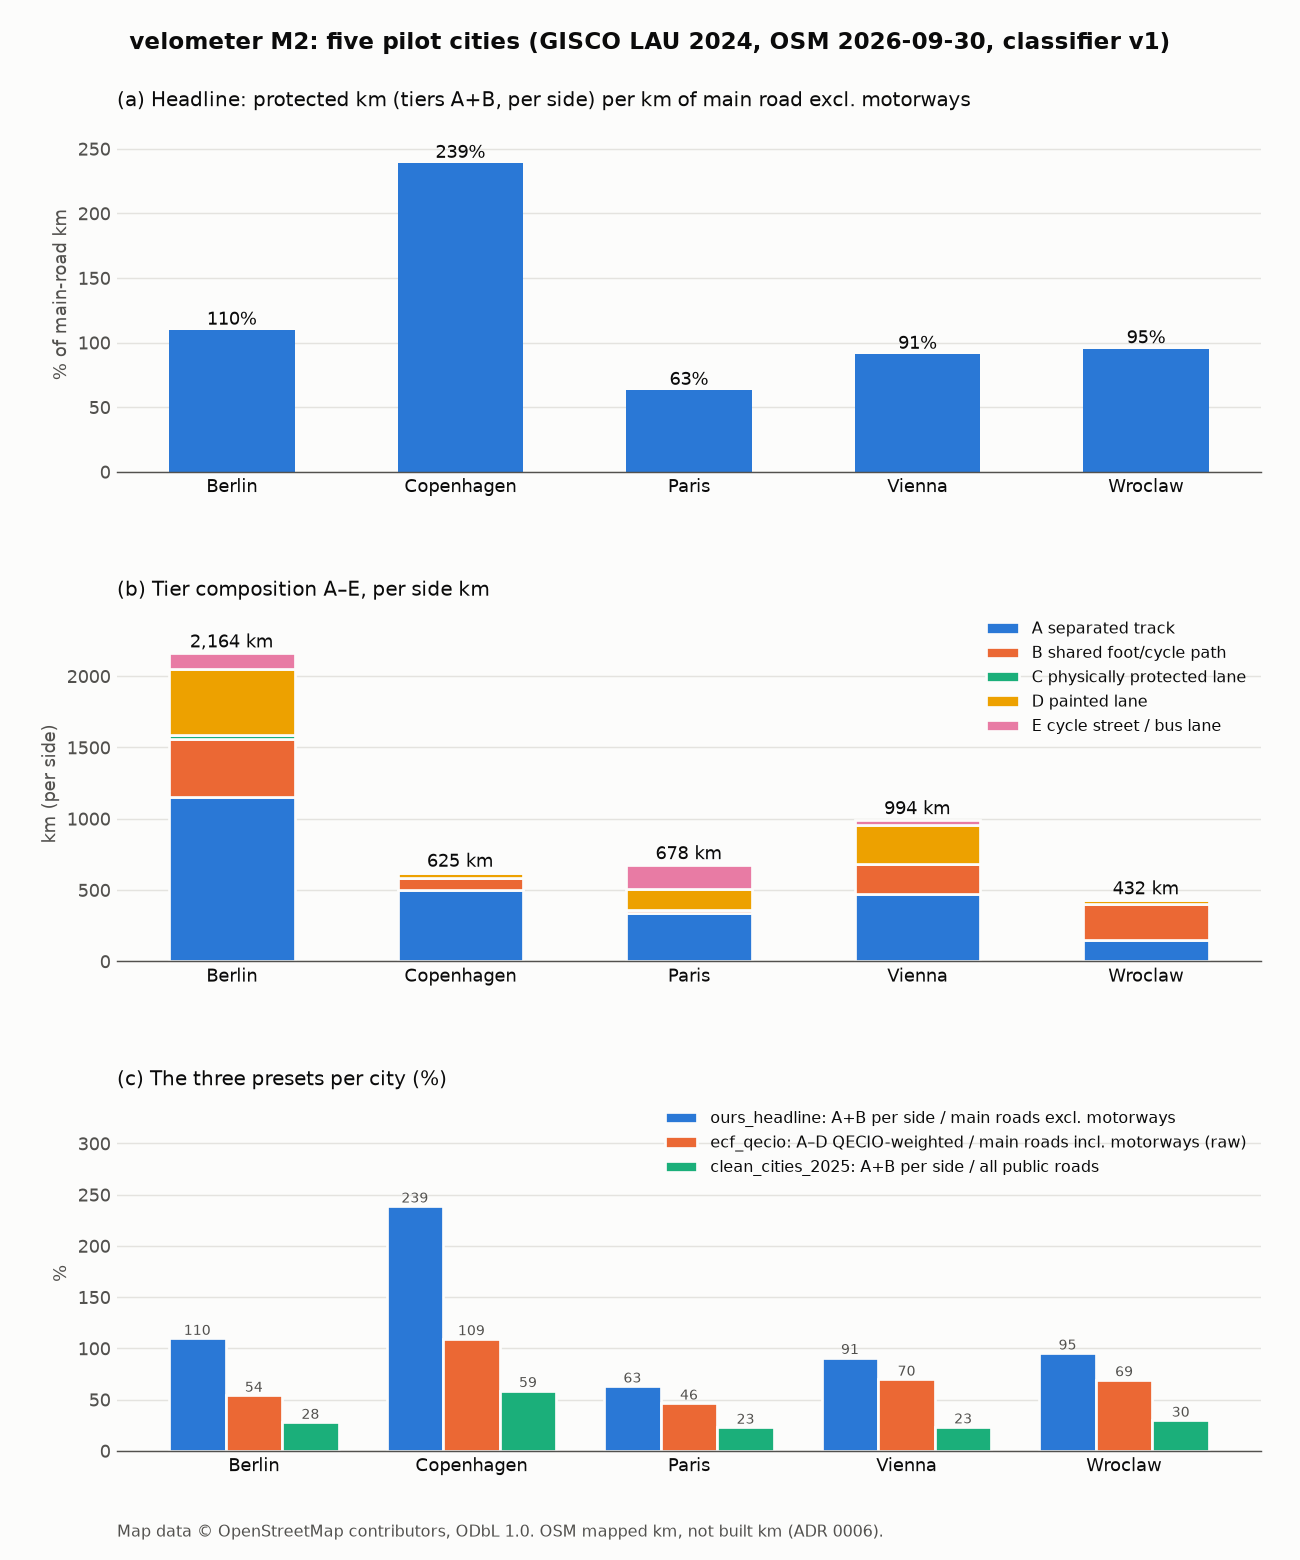
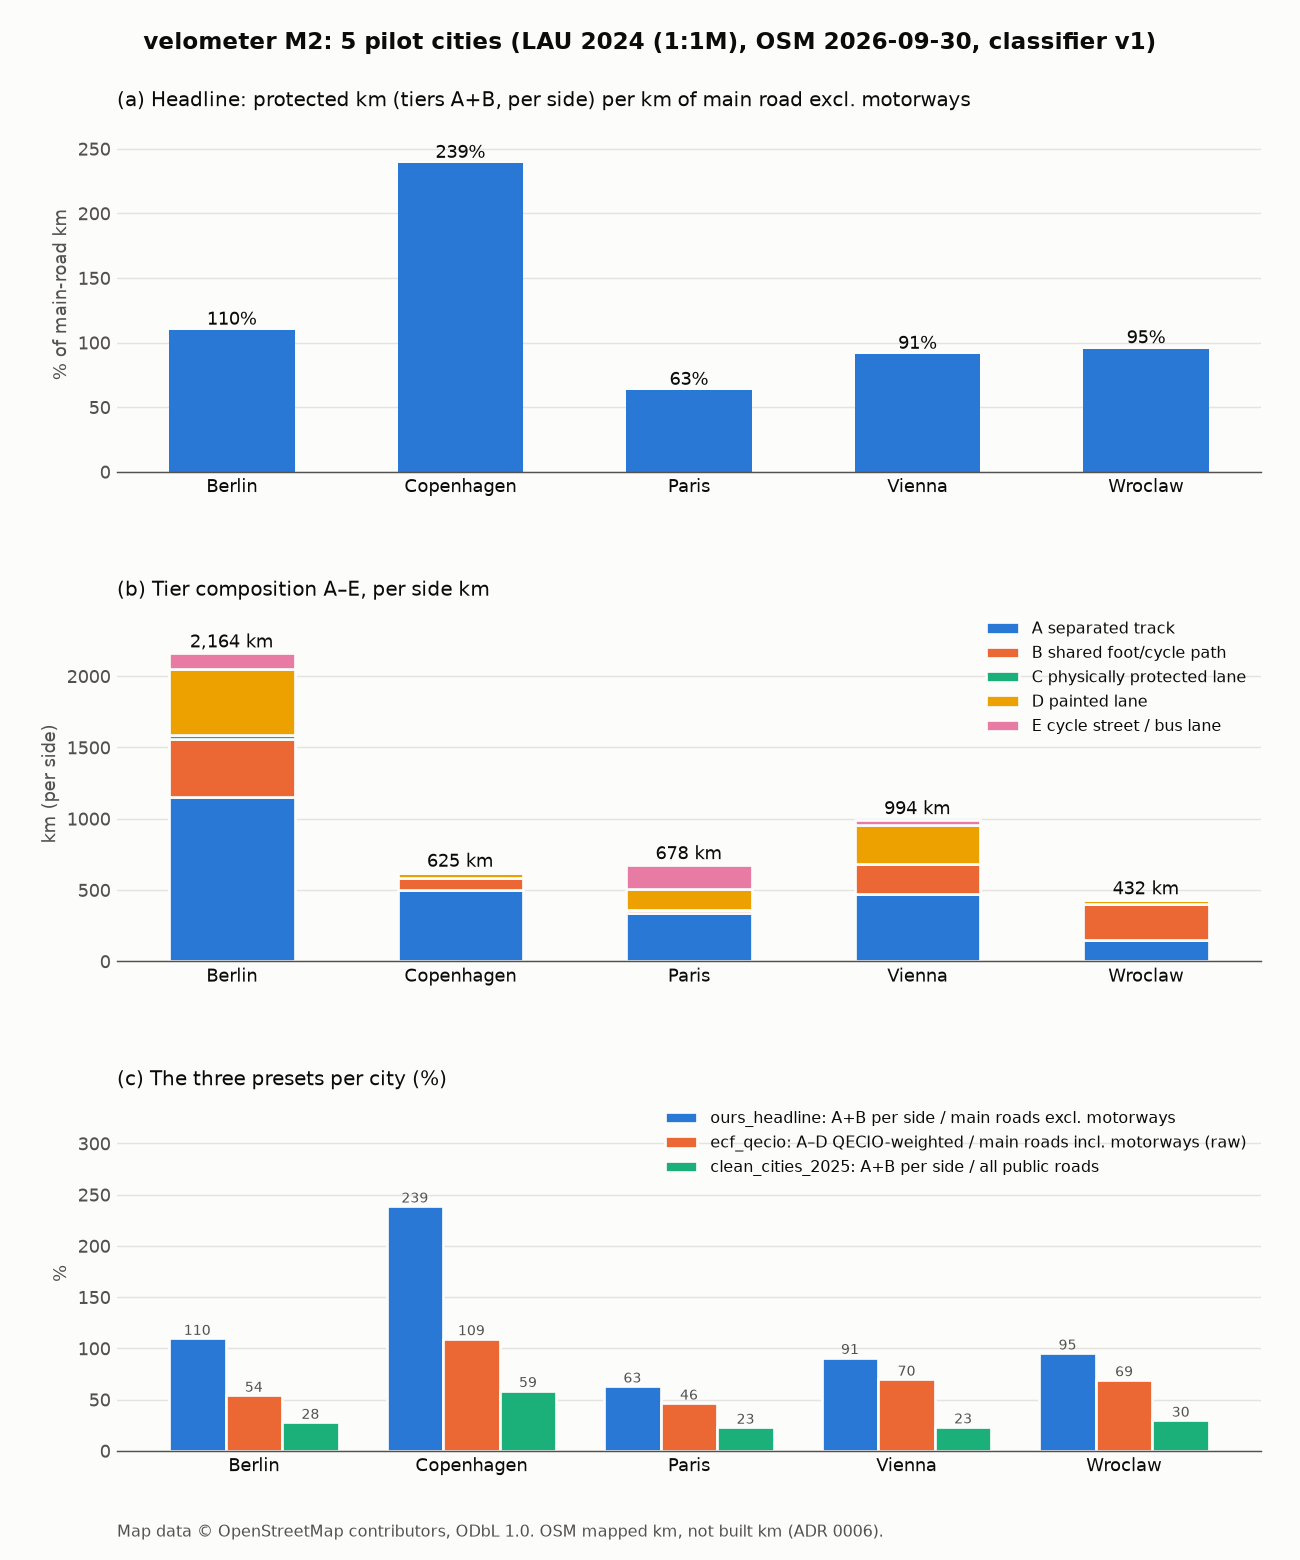
docs: M2 results and reconciliation from schema v3 runs 6-10; spec and scope amendments
Runs 6-10 (classifier v1, OSM 2026-09-30, config sha 0fac7cd5d1c8) reproduce runs 1-5
exactly: every road_lengths, tier_lengths and metrics value is identical; only n_ways
drops where ways lie wholly outside the boundary (M1).

- reconciliation.md: regenerated with provenance lines; explanations name runs 6-10
  in an explained-against marker. M6: the Paris shared-path figure is restated on one
  basis (18.0 km centreline, 20.2 km per side), and the Wroclaw untiered total is
  recomputed from the snapshot (370.7 km = 166.8 + 203.7 + 0.2).
- m2_results.md/png: regenerated (run-row provenance, title from the runs).
- spec: R10 (bnk_network_km against A+B+E) in decision 11 and the section 3 table;
  Vienna's network km 2,844 and its correction date (M7); schema v3 and the new
  reconcile checks.
- CLAUDE.md: current scope points at the M2 spec (M10).

Assisted-by: Claude:claude-opus-5-5

Changed region(s): [[0.0923, 0.0, 0.8923, 0.0308]]

diff --git a/docs/reconciliation.md b/docs/reconciliation.md
@@ -17,6 +17,8 @@ Comparison map: `config/reconcile.yaml`. Our numbers are OSM *mapped* km (ADR 00
 
 #### berlin
 
+Provenance: run 6 · OSM 2026-09-30T20:22:42Z · classifier v1 `{"plain_cycleway_on_oneway":"traffic_side"}` · config `0fac7cd5d1c8` · commit `4e3b2c3` · boundary lau `760d04d86a75` · sources: bikenetkit_v1 retrieved 2026-10-01; changing_cities retrieved 2026-10-01; clean_cities_2025 retrieved 2026-10-01; official retrieved 2026-10-01; qecio_v2_10 retrieved 2026-10-01, file md5 fc8712edb94749b5cee4838075d59274
+
 | key | ours | theirs | gap | flag | tags | source (date) |
 |---|---:|---:|---:|---|---|---|
 | `berlin/cc_ratio` | 27.7 | 17.0 | +62.9% | **>20%** | date_gap | clean_cities_2025 (2025-05-14) |
@@ -35,6 +37,8 @@ Comparison map: `config/reconcile.yaml`. Our numbers are OSM *mapped* km (ADR 00
 
 #### copenhagen
 
+Provenance: run 9 · OSM 2026-09-30T20:22:42Z · classifier v1 `{"plain_cycleway_on_oneway":"traffic_side"}` · config `0fac7cd5d1c8` · commit `4e3b2c3` · boundary lau `e7afb8eb0bb0` · sources: bikenetkit_v1 retrieved 2026-10-01; clean_cities_2025 retrieved 2026-10-01; qecio_v2_10 retrieved 2026-10-01, file md5 fc8712edb94749b5cee4838075d59274
+
 | key | ours | theirs | gap | flag | tags | source (date) |
 |---|---:|---:|---:|---|---|---|
 | `copenhagen/cc_ratio` | 58.6 | 43.0 | +36.4% | **>20%** | date_gap | clean_cities_2025 (2025-05-14) |
@@ -48,6 +52,8 @@ Comparison map: `config/reconcile.yaml`. Our numbers are OSM *mapped* km (ADR 00
 | `copenhagen/bnk_network_km` | 588.6 | 558.2 | +5.4% | ok | definition_mismatch, boundary_mismatch | bikenetkit_v1 (?) |
 
 #### paris
+
+Provenance: run 7 · OSM 2026-09-30T20:22:42Z · classifier v1 `{"plain_cycleway_on_oneway":"traffic_side"}` · config `0fac7cd5d1c8` · commit `4e3b2c3` · boundary lau `87ba05899604` · sources: bikenetkit_v1 retrieved 2026-10-01; clean_cities_2025 retrieved 2026-10-01; qecio_v2_10 retrieved 2026-10-01, file md5 fc8712edb94749b5cee4838075d59274
 
 | key | ours | theirs | gap | flag | tags | source (date) |
 |---|---:|---:|---:|---|---|---|
@@ -63,14 +69,16 @@ Comparison map: `config/reconcile.yaml`. Our numbers are OSM *mapped* km (ADR 00
 
 #### vienna
 
+Provenance: run 8 · OSM 2026-09-30T20:22:42Z · classifier v1 `{"plain_cycleway_on_oneway":"traffic_side"}` · config `0fac7cd5d1c8` · commit `4e3b2c3` · boundary lau `e9f660e9d87a` · sources: bikenetkit_v1 retrieved 2026-10-01; clean_cities_2025 retrieved 2026-10-01; qecio_v2_10 retrieved 2026-10-01, file md5 fc8712edb94749b5cee4838075d59274
+
 | key | ours | theirs | gap | flag | tags | source (date) |
 |---|---:|---:|---:|---|---|---|
 | `vienna/cc_ratio` | 23.2 | 14.0 | +65.9% | **>20%** | date_gap | clean_cities_2025 (2025-05-14) |
-| `vienna/cc_ratio@incl_traffic_calmed_restricted_access` | 23.2 | 22.0 | +5.6% | ok | date_gap, scope_mismatch | clean_cities_2025 (2025-05-14) |
+| `vienna/cc_ratio@incl_traffic_calmed_restricted_access` | 23.2 | 22.0 | +5.6% | ok | date_gap, scope_mismatch | clean_cities_2025 (2025-07-17) |
 | `vienna/cc_km` | 679.8 | 384.0 | +77.0% | **>20%** | date_gap | clean_cities_2025 (2025-05-14) |
-| `vienna/cc_km@incl_traffic_calmed_restricted_access` | 679.8 | 625.1 | +8.8% | ok | date_gap, scope_mismatch | clean_cities_2025 (2025-05-14) |
+| `vienna/cc_km@incl_traffic_calmed_restricted_access` | 679.8 | 625.1 | +8.8% | ok | date_gap, scope_mismatch | clean_cities_2025 (2025-07-17) |
 | `vienna/cc_network_km` | 2,926.7 | 2,844.0 | +2.9% | ok | date_gap | clean_cities_2025 (2025-05-14) |
-| `vienna/cc_network_km@incl_traffic_calmed_restricted_access` | 2,926.7 | 2,844.0 | +2.9% | ok | date_gap, scope_mismatch | clean_cities_2025 (2025-05-14) |
+| `vienna/cc_network_km@incl_traffic_calmed_restricted_access` | 2,926.7 | 2,844.0 | +2.9% | ok | date_gap, scope_mismatch | clean_cities_2025 (2025-07-17) |
 | `vienna/qecio_main_km` | 1,075.2 | 1,078.2 | -0.3% | ok | date_gap | qecio_v2_10 (2024-01-10) |
 | `vienna/qecio_tracks_km` | 423.5 | 380.5 | +11.3% | ok | date_gap | qecio_v2_10 (2024-01-10) |
 | `vienna/qecio_lanes_km` | 136.7 | 141.2 | -3.1% | ok | date_gap | qecio_v2_10 (2024-01-10) |
@@ -79,6 +87,8 @@ Comparison map: `config/reconcile.yaml`. Our numbers are OSM *mapped* km (ADR 00
 | `vienna/bnk_network_km` | 720.9 | 782.6 | -7.9% | ok | definition_mismatch, boundary_mismatch | bikenetkit_v1 (?) |
 
 #### wroclaw
+
+Provenance: run 10 · OSM 2026-09-30T20:22:42Z · classifier v1 `{"plain_cycleway_on_oneway":"traffic_side"}` · config `0fac7cd5d1c8` · commit `4e3b2c3` · boundary lau `6e5e44174776` · sources: bikenetkit_v1 retrieved 2026-10-01; clean_cities_2025 retrieved 2026-10-01; qecio_v2_10 retrieved 2026-10-01, file md5 fc8712edb94749b5cee4838075d59274
 
 | key | ours | theirs | gap | flag | tags | source (date) |
 |---|---:|---:|---:|---|---|---|
@@ -96,8 +106,11 @@ Comparison map: `config/reconcile.yaml`. Our numbers are OSM *mapped* km (ADR 00
 
 ## Explanations
 
-Evidence used below: tier and road km from the run rows (`velometer.sqlite`, runs 1–5, OSM
-2026-09-30, classifier v1, GISCO LAU 2024), the external rows and their notes, the QECIO v2.10
+<!-- explained-against: berlin=6 copenhagen=9 paris=7 vienna=8 wroclaw=10 -->
+
+Evidence used below: tier and road km from the run rows (`velometer.sqlite`, runs 6–10, OSM
+2026-09-30, classifier v1, GISCO LAU 2024; their tier and road km are identical to the
+superseded runs 1–5), the external rows and their notes, the QECIO v2.10
 Methodology PDF (Table 2) and `docs/research/m2-data-sources-2026-10-01.md`. "Centreline" means
 our `qecio_weighted` basis: a bidirectional way counts once and each one-way side counts half,
 which is how QECIO counts and, judging by Berlin and Wrocław, how the ECF tracker numbers in
@@ -174,9 +187,10 @@ numbers (`paris/qecio_tracks_km` +11.1%, `paris/qecio_total_km` −11.6%).
 ### paris/qecio_shared_km
 Cause: **date**. Applying QECIO's own tag definition of cycle and pedestrian tracks (Methodology
 Table 2: footway/path/pedestrian + `bicycle=designated` + `segregated!=yes`, or cycleway +
-`foot=designated` + `segregated!=yes`) to our 2026-09-30 snapshot gives 20.3 km centreline, of
-which v1 classifies 20.2 km as B. So our classifier and QECIO's rule agree on today's data, and
-the gap to QECIO's 24.3 km (−6.3 km on a small base) lies in the data: 994 days of retagging
+`foot=designated` + `segregated!=yes`) to our 2026-09-30 snapshot selects 20.3 km of ways, which
+v1 classifies as B in full: 18.0 km centreline (20.2 km per side), the same 18.0 km as our
+`qecio_shared_km` value. So our classifier and QECIO's rule agree on today's data, and the gap to
+QECIO's 24.3 km (−6.3 km centreline on a small base) lies in the data: 994 days of retagging
 since QECIO's 2024-01-10 snapshot. Not verified against a 2024 snapshot.
 
 ### vienna/cc_ratio
@@ -213,9 +227,11 @@ with a different scope; per-city sources are unverified (research doc §6).
 ### wroclaw/bnk_network_km
 Cause: **definition**. BikeNetKit's filter also takes living streets and footways/paths with
 `bicycle=yes|permissive`, which our tiers A+B+E leave out. Applying that filter to our snapshot
-gives 769.1 km centreline, of which 364.5 km get no tier at all from v1. The two groups
-that v1 deliberately leaves out of A/B/E are living streets (167.4 km) and footway/path/pedestrian
-ways with `bicycle=yes|permissive` (113.9 + 3.1 + 77.9 + 8.7 = 203.6 km). BikeNetKit's 638.8 km sits between our 399.4 km and that raw 769.1 km, which
+gives 769.1 km of ways (each way once), of which 370.7 km get no tier A–E from v1. Almost all of
+that is the two groups v1 deliberately leaves out of A/B/E: living streets (166.8 of their
+167.4 km; the other 0.7 km carry a painted lane) and footway/path/pedestrian ways with
+`bicycle=yes|permissive` (footway 113.9 + 3.1, path 77.9 + 0.04, pedestrian 8.7 = 203.7 km, all
+untiered); the remaining 0.2 km are other ways. BikeNetKit's 638.8 km sits between our 399.4 km and that raw 769.1 km, which
 fits its graph simplification and isolate removal. The boundaries agree (BikeNetKit ≈ 290 km²
 vs our 291.6 km²), so the boundary is not the cause. For the other four cities the same
 comparison stays within 10%.

diff --git a/docs/superpowers/specs/2026-10-01-velometer-m2-design.md b/docs/superpowers/specs/2026-10-01-velometer-m2-design.md
@@ -76,10 +76,10 @@
     | Copenhagen | 397 | 926 | 43% |
     | Wrocław | 355 | 1,769 | 20% |
     | Berlin | 925 | 5,350 | 17% |
-    | Vienna | 384 | — | 14% |
+    | Vienna | 384 | 2,844 | 14% |
 
-    Vienna also has a July 2025 web correction: 625.1 km of 2,844 km (22.0%), which adds traffic-calmed streets and so is not like-for-like. Both rows are stored, with notes. Whether each city's figure is city-submitted or OSM is not stated per city, so the note field says so.
-11. **BikeNetKit's "bike network"** includes living streets and cycle streets, so it is wider than "protected". It is compared against our `A+B+C+D+E` sum, not the headline. Its boundaries are OSM/Nominatim polygons, which differ from LAU. The snapshot date is "summer 2026" (unverified), and the row carries that note.
+    Vienna also has a July 2025 web correction: 625.1 km of 2,844 km (22.0%), which adds traffic-calmed streets and so is not like-for-like. Its rows carry `reference_date` 2025-07-17 (the page's modified date; the correction's own date is not published). Both rows are stored, with notes. Whether each city's figure is city-submitted or OSM is not stated per city, so the note field says so.
+11. **BikeNetKit's "bike network"** includes living streets and cycle streets, so it is wider than "protected". It is compared against our `A+B+E` sum (BikeNetKit has no lanes; research §7, Ruling R10, amended in the final fix dispatch), not the headline. Its boundaries are OSM/Nominatim polygons, which differ from LAU. The snapshot date is "summer 2026" (unverified), and the row carries that note.
 12. **Scale engine.** shapely with STRtree stays the engine. DuckDB is introduced only if a full Berlin `classify` takes more than 10 minutes or more than 8 GB RSS on this machine. The measurement is recorded in ADR 0007 either way.
 
 ## 3. Units and interfaces
@@ -156,6 +156,7 @@ Retries are bounded (3) with back-off.
   - `write_result(run_id, city_id, MeasureResult, metrics)`, in one transaction;
   - `upsert_boundary` and `upsert_external_figures`.
 - Every connection is used as a context manager.
+- **Schema v3 (Ruling R12, final fix dispatch):** an additive migration (`ALTER TABLE ADD COLUMN`) adds `runs.population_value/year/source`, written at run start, and `runs.config_sha256` (sha256 of the classifier YAML bytes followed by `presets.yaml` bytes). `config_sha256` is part of the run key and the done-run unique index; pre-v3 runs keep NULL and are never reused.
 
 ### `run.py` (orchestration)
 `run_city(city, boundary_kind="lau", classifier="v1", force=False) -> RunOutcome` chains these steps:
@@ -188,7 +189,7 @@ A completed run with the same key is skipped unless `force`. A failure marks the
 | `qecio_tracks_km` | QECIO tracks km | A + B[segregated=yes], qecio_weighted |
 | `qecio_lanes_km` | QECIO lanes km | C + D, qecio_weighted |
 | `qecio_total_km` | QECIO total cycle infrastructure | A+B+C+D, qecio_weighted |
-| `bnk_network_km` | BikeNetKit network km | A–E, per_side |
+| `bnk_network_km` | BikeNetKit network km | A+B+E, per_side (BikeNetKit has no lanes, R10) |
 | `official_*` | Berlin official figures | listed, never flagged: they measure new km per year, not stock |
 
 - `gap_pct = (ours − theirs) / theirs`.
@@ -201,6 +202,7 @@ A completed run with the same key is skipped unless `force`. A failure marks the
 - Hand-written explanations sit under `### <city>/<comparison id>` headings.
 - `velometer reconcile --write` rewrites only the generated block.
 - `velometer reconcile --check` exits 1 when a flagged gap has no explanation heading.
+- Final fix dispatch (R13, I7): each city's generated block starts with a provenance line (run, OSM timestamp, classifier and parameters, config sha, commit, boundary sha, `retrieved_at` per source). The explanations carry `<!-- explained-against: city=run_id ... -->`, and `--check` also exits 1 when a city's latest run differs from it, or when a comparison marked `required` in `config/reconcile.yaml` (`cc_ratio`, `qecio_main_km`, `bnk_network_km`) has no external row for a city with a run. It warns about headings that match no flagged gap.
 
 ### CLI additions
 ```

diff --git a/docs/review/m2_results.md b/docs/review/m2_results.md
@@ -40,13 +40,13 @@ Headline and preset values are percentages (numerator km / denominator km × 100
 
 Classifier: `v1` with parameters `{"plain_cycleway_on_oneway":"traffic_side"}` (`config/classifier/`).
 
-| city | run | OSM timestamp | Geofabrik md5 | git commit | boundary | area km² | population | population source |
-|---|---:|---|---|---|---|---:|---:|---|
-| berlin | 1 | 2026-09-30T20:22:42Z | `d9f43a4a` | `2e90435` | Eurostat GISCO, LAU 2024 (1:1M) | 892.3 | 3,782,202 (2024) | GISCO LAU 2024 POP_2024 |
-| copenhagen | 4 | 2026-09-30T20:22:42Z | `ba5b1ed1` | `2e90435` | Eurostat GISCO, LAU 2024 (1:1M) | 94.9 | 659,350 (2024) | GISCO LAU 2024 POP_2024 |
-| paris | 2 | 2026-09-30T20:22:42Z | `cf264dbe` | `2e90435` | Eurostat GISCO, LAU 2024 (1:1M) | 105.3 | 2,084,894 (2024) | Eurostat demo_r_pjangrp3 FR101 2024 |
-| vienna | 3 | 2026-09-30T20:22:42Z | `74212346` | `2e90435` | Eurostat GISCO, LAU 2024 (1:1M) | 413.9 | 2,005,760 (2024) | GISCO LAU 2024 POP_2024 |
-| wroclaw | 5 | 2026-09-30T20:22:42Z | `0ab5acc3` | `2e90435` | Eurostat GISCO, LAU 2024 (1:1M) | 291.6 | 673,743 (2024) | GISCO LAU 2024 POP_2024 |
+| city | run | OSM timestamp | Geofabrik md5 | git commit | config sha | boundary | boundary sha | area km² | population | population source |
+|---|---:|---|---|---|---|---|---|---:|---:|---|
+| berlin | 6 | 2026-09-30T20:22:42Z | `d9f43a4a` | `4e3b2c3` | `0fac7cd5d1c8` | Eurostat GISCO, LAU 2024 (1:1M) | `760d04d86a75` | 892.3 | 3,782,202 (2024) | GISCO LAU 2024 POP_2024 |
+| copenhagen | 9 | 2026-09-30T20:22:42Z | `ba5b1ed1` | `4e3b2c3` | `0fac7cd5d1c8` | Eurostat GISCO, LAU 2024 (1:1M) | `e7afb8eb0bb0` | 94.9 | 659,350 (2024) | GISCO LAU 2024 POP_2024 |
+| paris | 7 | 2026-09-30T20:22:42Z | `cf264dbe` | `4e3b2c3` | `0fac7cd5d1c8` | Eurostat GISCO, LAU 2024 (1:1M) | `87ba05899604` | 105.3 | 2,084,894 (2024) | Eurostat demo_r_pjangrp3 FR101 2024 |
+| vienna | 8 | 2026-09-30T20:22:42Z | `74212346` | `4e3b2c3` | `0fac7cd5d1c8` | Eurostat GISCO, LAU 2024 (1:1M) | `e9f660e9d87a` | 413.9 | 2,005,760 (2024) | GISCO LAU 2024 POP_2024 |
+| wroclaw | 10 | 2026-09-30T20:22:42Z | `0ab5acc3` | `4e3b2c3` | `0fac7cd5d1c8` | Eurostat GISCO, LAU 2024 (1:1M) | `6e5e44174776` | 291.6 | 673,743 (2024) | GISCO LAU 2024 POP_2024 |
 
 ## Completeness (share of tier km with the tag)
 

diff --git a/CLAUDE.md b/CLAUDE.md
@@ -1,7 +1,7 @@
 # velometer
 
 Read `HANDOVER.md` (project brief) and `docs/adr/` (locked decisions) before changing behaviour.
-Current scope: `docs/superpowers/specs/2026-10-01-velometer-m0-m1-design.md`.
+Current scope: `docs/superpowers/specs/2026-10-01-velometer-m2-design.md`.
 
 - Gate: `uv run ruff format --check . && uv run ruff check . && uv run pytest`
 - Network tests are `@pytest.mark.slow` and deselected by default.
